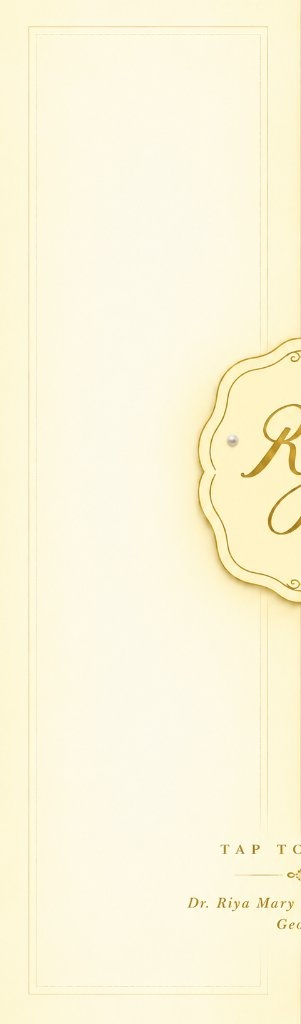
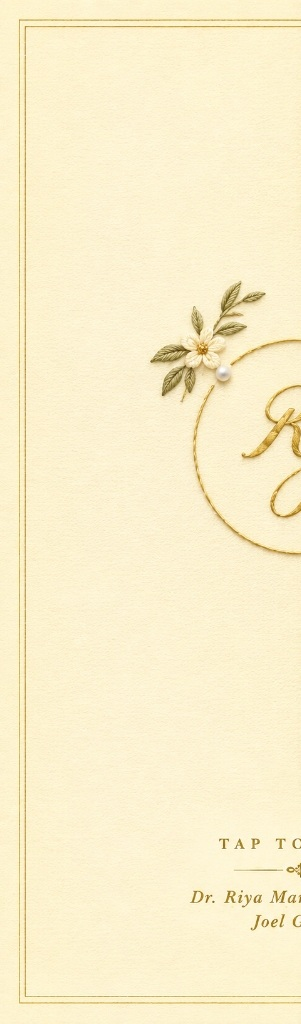
Update cover page image and refine opening door display

diff --git a/styles.css b/styles.css
@@ -78,10 +78,10 @@ body.doors-locked {
   align-items: center;
   justify-content: center;
   cursor: pointer;
-  background: transparent;
+  background: radial-gradient(circle at center, #faf6e5 0%, #ebe4c8 100%);
   perspective: 1600px;
   overflow: hidden;
-  transition: opacity 0.4s ease, visibility 0.4s ease;
+  transition: opacity 0.5s cubic-bezier(0.4, 0, 0.2, 1), visibility 0.5s ease;
 }
 
 .door-overlay.is-opening {
@@ -96,11 +96,14 @@ body.doors-locked {
 
 .door-wrapper {
   position: relative;
-  width: 100%;
-  max-width: 540px;
-  height: 100%;
+  width: min(100vw, 520px, calc(100vh * (602 / 1024)));
+  aspect-ratio: 602 / 1024;
+  height: auto;
+  max-height: 100vh;
   display: flex;
   overflow: hidden;
+  box-shadow: 0 20px 60px rgba(37, 54, 34, 0.25);
+  border-radius: 4px;
 }
 
 .door-panel {
@@ -111,25 +114,22 @@ body.doors-locked {
   transition: transform 0.85s cubic-bezier(0.35, 0, 0.25, 1);
   will-change: transform;
   background-color: #FDF5CA;
-  background-size: cover;
+  background-size: 100% 100%;
   background-repeat: no-repeat;
 }
 
 .door-left {
   left: 0;
   transform-origin: left center;
-  background-image: url('assets/door-left.jpg?v=2');
-  background-position: right center;
-  border-right: 1px solid rgba(196, 164, 78, 0.35);
-  box-shadow: inset -6px 0 16px rgba(185, 145, 50, 0.12);
+  background-image: url('assets/door-left.jpg?v=3');
+  background-position: center;
 }
 
 .door-right {
   right: 0;
   transform-origin: right center;
-  background-image: url('assets/door-right.jpg?v=2');
-  background-position: left center;
-  box-shadow: inset 6px 0 16px rgba(185, 145, 50, 0.1);
+  background-image: url('assets/door-right.jpg?v=3');
+  background-position: center;
 }
 
 .door-overlay.is-opening .door-left {

diff --git a/index.html b/index.html
@@ -12,7 +12,7 @@
   <link
     href="https://fonts.googleapis.com/css2?family=Cormorant+Garamond:ital,wght@0,400;0,500;0,600;0,700;1,400;1,500&family=Great+Vibes&family=Pinyon+Script&family=Alex+Brush&family=Plus+Jakarta+Sans:wght@400;500;600&display=swap"
     rel="stylesheet" />
-  <link rel="stylesheet" href="styles.css?v=15" />
+  <link rel="stylesheet" href="styles.css?v=16" />
 </head>
 
 <body class="doors-locked">

diff --git a/script.js b/script.js
@@ -36,7 +36,7 @@ function initDoors() {
 
     setTimeout(() => {
       doorOverlay.classList.add('is-opened');
-    }, 600);
+    }, 850);
   };
 
   doorOverlay.addEventListener('click', openDoors);
